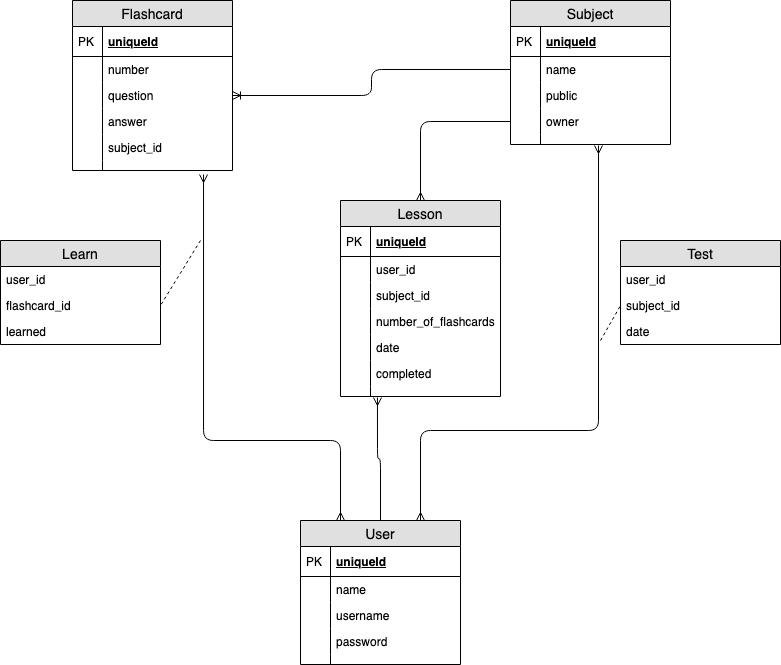
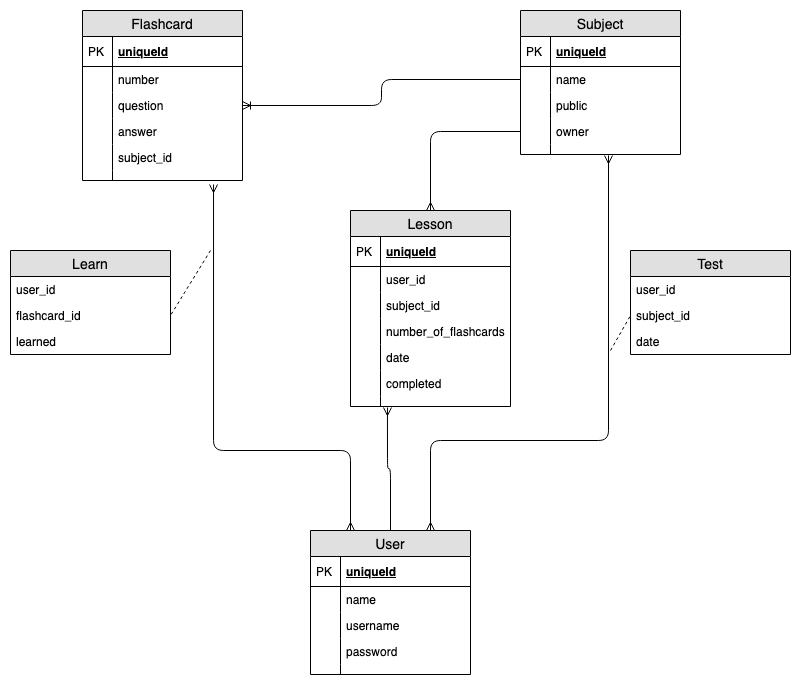
fix possition and path of db uml

diff --git a/docs/README.md b/docs/README.md
@@ -38,4 +38,6 @@ Tanulas segito webalkalmazas, ami a targyak elvegzeset segiti, a tananyag beoszt
 
 ## Adatbazis
 
-<img src="https://github.com/acsibacsi/tancify.git/raw/master/docs/uml/database_uml.png" alt="database_uml" width="200">
+<h2 align="center">
+<img src="uml/database_uml.png" alt="database_uml" width="661">
+</h2>
